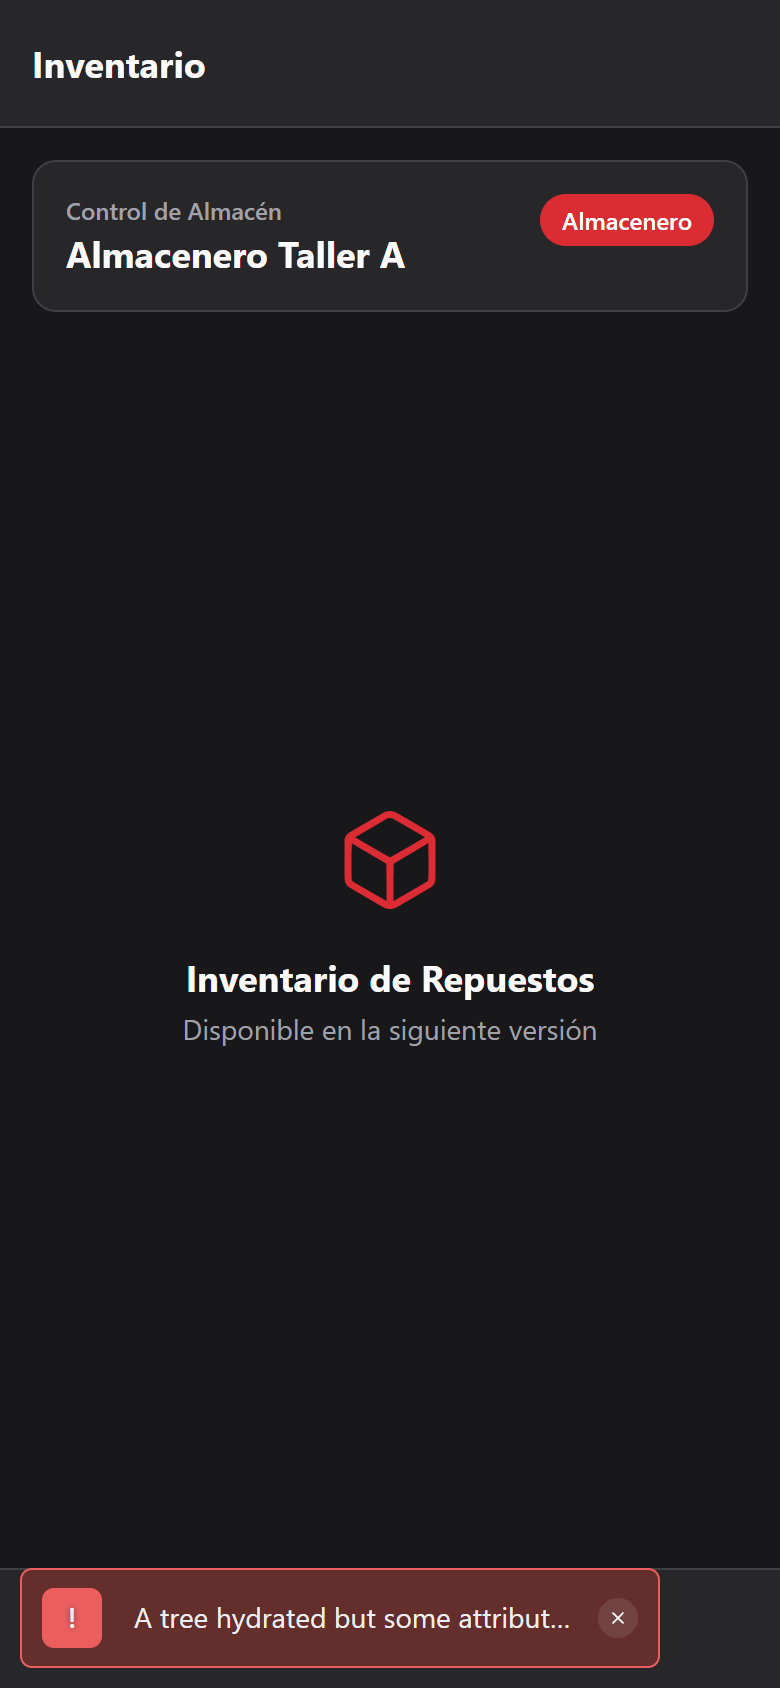
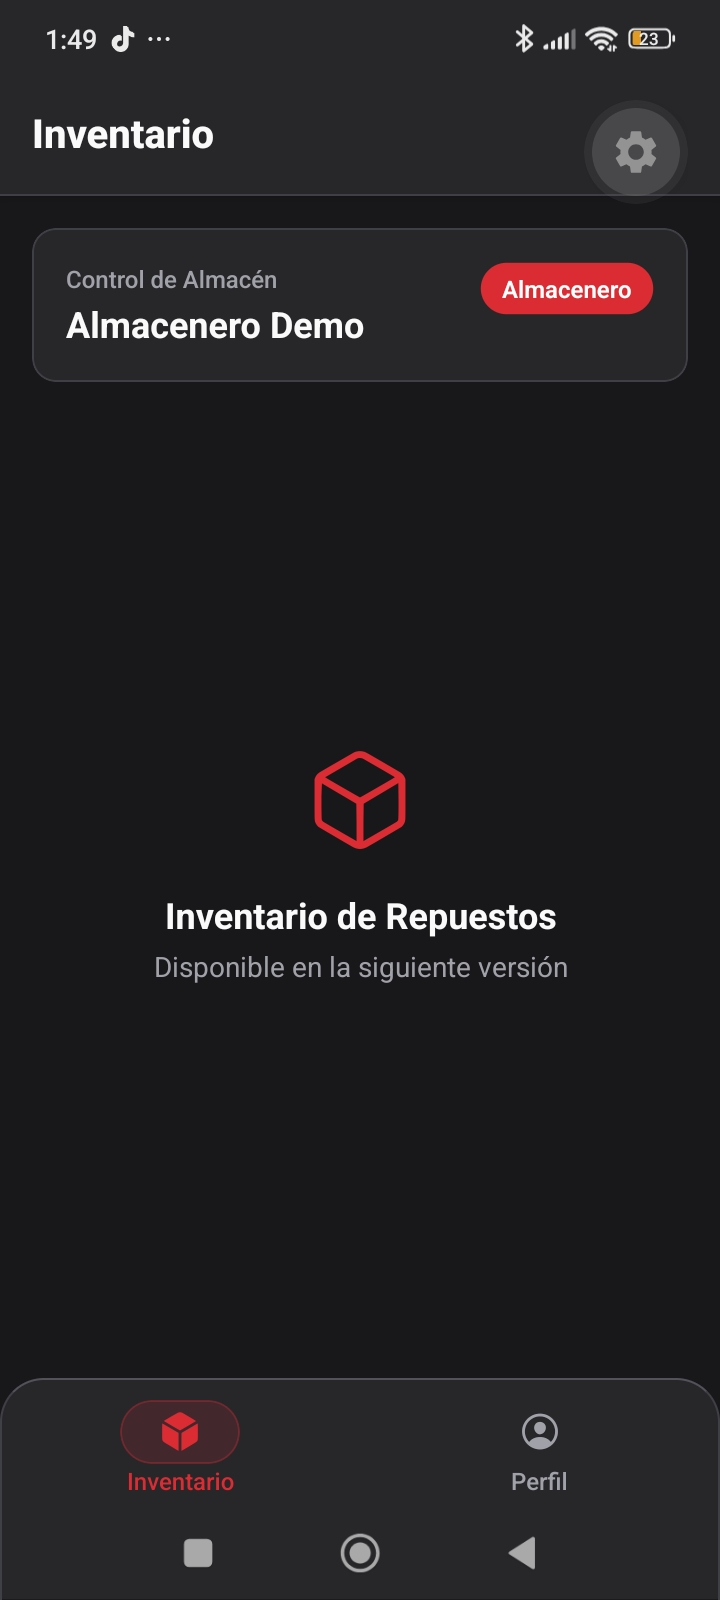
fix(mobile): barra de pestañas con área segura y fondo propio; capturas reales del celular

diff --git a/src/components/navigation/useTabScreenOptions.js b/src/components/navigation/useTabScreenOptions.js
@@ -1,4 +1,5 @@
-import { Platform } from 'react-native';
+import React from 'react';
+import { Platform, View, StyleSheet } from 'react-native';
 import { useSafeAreaInsets } from 'react-native-safe-area-context';
 import { useTheme } from '../../theme';
 
@@ -27,26 +28,45 @@ export default function useTabScreenOptions() {
       paddingTop: 8,
       minHeight: 48,
     },
+    // La barra pinta su propio fondo rectangular (color de pantalla) y encima
+    // una "tarjeta" con esquinas redondeadas y sombra. Así las esquinas nunca
+    // dejan ver el fondo blanco de Android.
     tabBarStyle: {
-      backgroundColor: colors.card,
+      backgroundColor: colors.background,
       height: TAB_BAR_CONTENT_HEIGHT + bottomInset,
       paddingBottom: bottomInset,
       paddingTop: 0,
-      borderTopWidth: 1,
-      borderTopColor: colors.border,
-      borderTopLeftRadius: 22,
-      borderTopRightRadius: 22,
-      // Efecto de elevación (sombra hacia arriba)
-      ...Platform.select({
-        android: { elevation: 18 },
-        default: {
-          shadowColor: '#000',
-          shadowOffset: { width: 0, height: -4 },
-          shadowOpacity: isDark ? 0.45 : 0.12,
-          shadowRadius: 12,
-        },
-      }),
+      borderTopWidth: 0,
+      elevation: 0,
+      shadowOpacity: 0,
     },
+    tabBarBackground: () => (
+      <View
+        style={[
+          StyleSheet.absoluteFill,
+          {
+            backgroundColor: colors.card,
+            borderTopLeftRadius: 22,
+            borderTopRightRadius: 22,
+            borderTopWidth: 1,
+            borderLeftWidth: 1,
+            borderRightWidth: 1,
+            borderColor: colors.border,
+          },
+          // En Android no se usa elevation aquí: cambiaría el orden de dibujo
+          // y taparía los íconos. El relieve lo da el borde superior claro.
+          Platform.select({
+            android: { borderTopColor: isDark ? '#52525b' : '#d4d4d8' },
+            default: {
+              shadowColor: '#000',
+              shadowOffset: { width: 0, height: -4 },
+              shadowOpacity: isDark ? 0.45 : 0.12,
+              shadowRadius: 12,
+            },
+          }),
+        ]}
+      />
+    ),
     sceneStyle: {
       backgroundColor: colors.background,
     },

diff --git a/app/(mecanico)/_layout.js b/app/(mecanico)/_layout.js
@@ -1,7 +1,9 @@
 import React from 'react';
+import { View } from 'react-native';
 import { Tabs } from 'expo-router';
 import TabBarIcon from '../../src/components/navigation/TabBarIcon';
 import useTabScreenOptions from '../../src/components/navigation/useTabScreenOptions';
+import { useTheme } from '../../src/theme';
 
 export const unstable_settings = {
   anchor: 'index',
@@ -9,29 +11,37 @@ export const unstable_settings = {
 
 export default function MecanicoLayout() {
   const screenOptions = useTabScreenOptions();
+  const { colors } = useTheme();
 
+  // Fondo del tema detrás de las esquinas redondeadas de la barra
   return (
-    <Tabs backBehavior="initialRoute" screenOptions={screenOptions}>
-      <Tabs.Screen
-        name="index"
-        options={{
-          title: 'Mis órdenes',
-          tabBarLabel: 'Mis órdenes',
-          tabBarIcon: ({ color, focused }) => (
-            <TabBarIcon name="construct" color={color} focused={focused} />
-          ),
-        }}
-      />
-      <Tabs.Screen
-        name="perfil"
-        options={{
-          title: 'Perfil',
-          tabBarLabel: 'Perfil',
-          tabBarIcon: ({ color, focused }) => (
-            <TabBarIcon name="person-circle" color={color} focused={focused} />
-          ),
-        }}
-      />
-    </Tabs>
+    <View style={{ flex: 1, backgroundColor: colors.background }}>
+      <Tabs backBehavior="initialRoute" screenOptions={screenOptions}>
+        <Tabs.Screen
+          name="index"
+          options={{
+            title: 'Mis órdenes',
+            tabBarLabel: 'Mis órdenes',
+            tabBarIcon: ({ color, focused }) => (
+              <TabBarIcon name="construct" color={color} focused={focused} />
+            ),
+          }}
+        />
+        <Tabs.Screen
+          name="perfil"
+          options={{
+            title: 'Perfil',
+            tabBarLabel: 'Perfil',
+            tabBarIcon: ({ color, focused }) => (
+              <TabBarIcon
+                name="person-circle"
+                color={color}
+                focused={focused}
+              />
+            ),
+          }}
+        />
+      </Tabs>
+    </View>
   );
 }

diff --git a/app/(almacenero)/_layout.js b/app/(almacenero)/_layout.js
@@ -1,7 +1,9 @@
 import React from 'react';
+import { View } from 'react-native';
 import { Tabs } from 'expo-router';
 import TabBarIcon from '../../src/components/navigation/TabBarIcon';
 import useTabScreenOptions from '../../src/components/navigation/useTabScreenOptions';
+import { useTheme } from '../../src/theme';
 
 export const unstable_settings = {
   anchor: 'index',
@@ -9,29 +11,37 @@ export const unstable_settings = {
 
 export default function AlmaceneroLayout() {
   const screenOptions = useTabScreenOptions();
+  const { colors } = useTheme();
 
+  // Fondo del tema detrás de las esquinas redondeadas de la barra
   return (
-    <Tabs backBehavior="initialRoute" screenOptions={screenOptions}>
-      <Tabs.Screen
-        name="index"
-        options={{
-          title: 'Inventario',
-          tabBarLabel: 'Inventario',
-          tabBarIcon: ({ color, focused }) => (
-            <TabBarIcon name="cube" color={color} focused={focused} />
-          ),
-        }}
-      />
-      <Tabs.Screen
-        name="perfil"
-        options={{
-          title: 'Perfil',
-          tabBarLabel: 'Perfil',
-          tabBarIcon: ({ color, focused }) => (
-            <TabBarIcon name="person-circle" color={color} focused={focused} />
-          ),
-        }}
-      />
-    </Tabs>
+    <View style={{ flex: 1, backgroundColor: colors.background }}>
+      <Tabs backBehavior="initialRoute" screenOptions={screenOptions}>
+        <Tabs.Screen
+          name="index"
+          options={{
+            title: 'Inventario',
+            tabBarLabel: 'Inventario',
+            tabBarIcon: ({ color, focused }) => (
+              <TabBarIcon name="cube" color={color} focused={focused} />
+            ),
+          }}
+        />
+        <Tabs.Screen
+          name="perfil"
+          options={{
+            title: 'Perfil',
+            tabBarLabel: 'Perfil',
+            tabBarIcon: ({ color, focused }) => (
+              <TabBarIcon
+                name="person-circle"
+                color={color}
+                focused={focused}
+              />
+            ),
+          }}
+        />
+      </Tabs>
+    </View>
   );
 }
